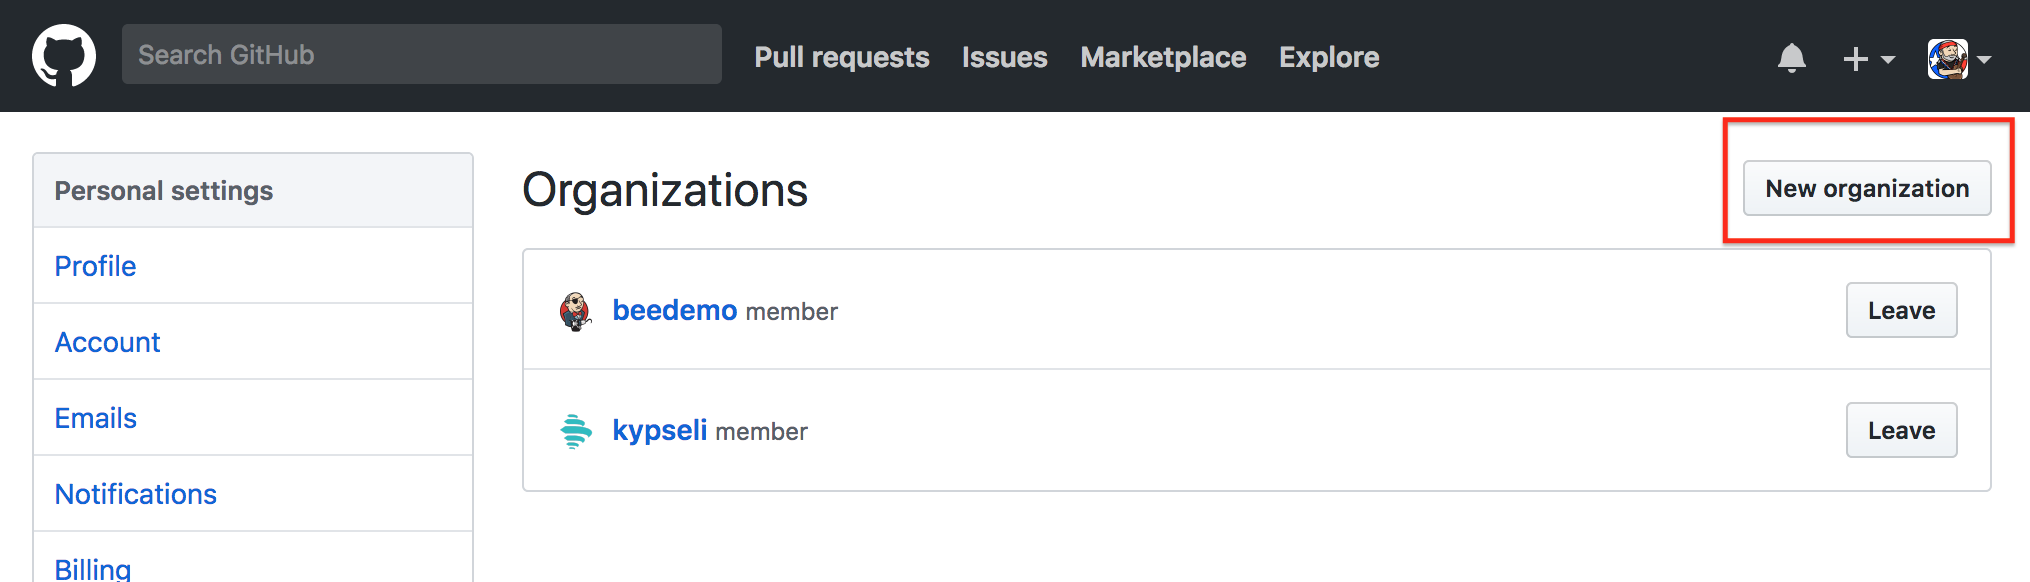
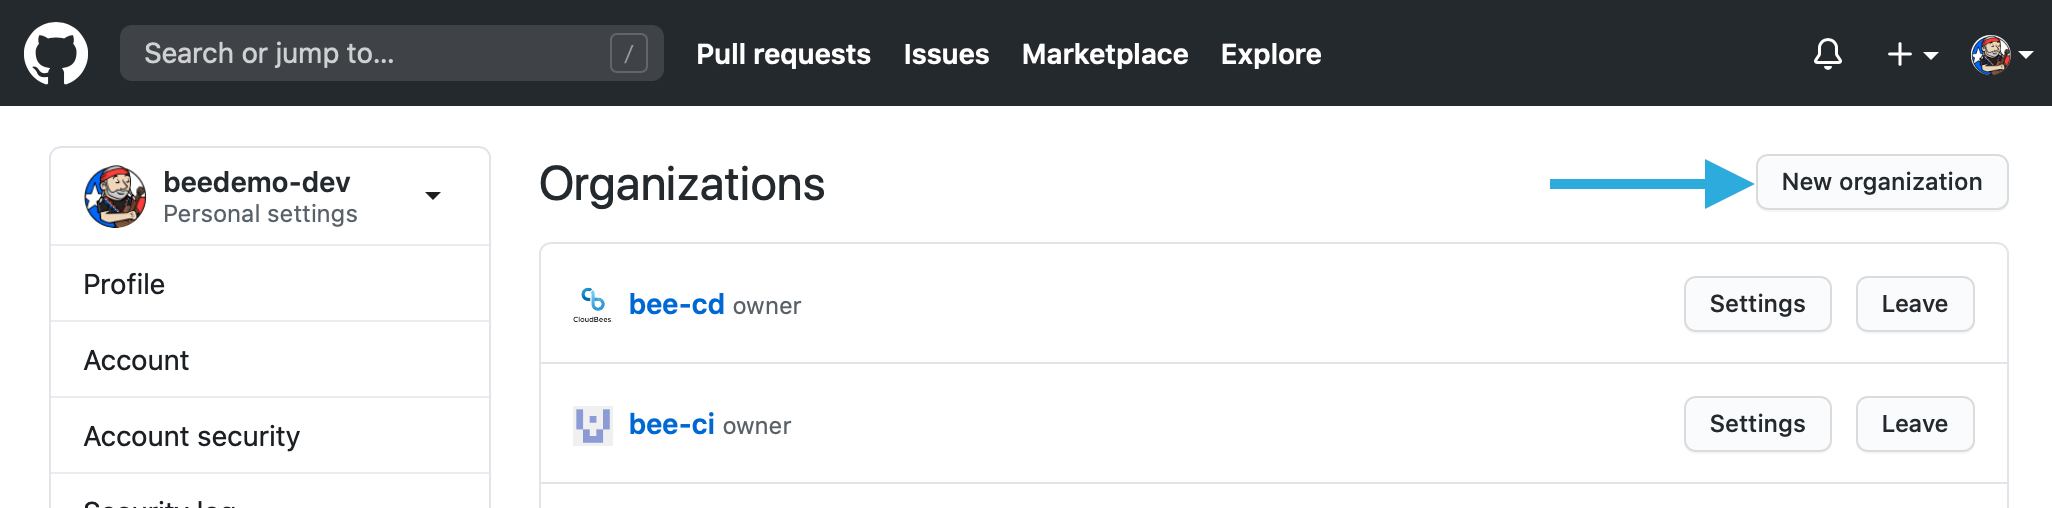
updated org setup

diff --git a/labs/cloudbees-ci/content/getting-started/pre-workshop-setup.md b/labs/cloudbees-ci/content/getting-started/pre-workshop-setup.md
@@ -18,12 +18,10 @@ Feel free to use an existing GitHub.com account or create a new one:
 ### Create a GitHub Organization
 
 We highly recommend creating a new GitHub Organization for the CloudBees CI Workshop. We will be using a GitHub App based credential to enable authentication and authorization between your GitHub.com Organization for the workshop and CloudBees CI.
-1. Ensure that you are logged into GitHub.com and then navigate to your [Organizations Settings page](https://github.com/settings/organizations). 
-2. Click on **New Organization** button.<p><img src="setup-github-new-org.png" width=550/>
-3. Select the **Free** plan by clicking on the **Join for free** button.<p>![GitHub Org Free](github-org-free.png?width=60pc)
-4. On the next screen, enter a unique ***Organization account name***, a valid ***Contact email***, select **My personal account** for ***This organization belongs to*** and then click on the **Next** button.<p>![GitHub Org Set up](github-org-set-up.png?width=40pc) 
-5. On the **Welcome to GitHub** screen just click the **Complete setup** button.<p>![GitHub Org Set up](github-org-welcome.png?width=50pc) 
-6. On the final page you don't have to fill anything in/answer any questions (unless your really want to) and just scroll to the bottom of the page and click the **Submit** button.
+1. Ensure that you are logged into GitHub.com and then navigate to this [link to create a new (and free) GitHub Organization](https://github.com/account/organizations/new?coupon=&plan=team_free). 
+2. Enter a unique ***Organization account name***, a valid ***Contact email***, select **My personal account** for ***This organization belongs to*** and then click on the **Next** button.<p>![GitHub Org Set up](github-org-set-up.png?width=40pc) 
+3. On the **Welcome to GitHub** screen just click the **Complete setup** button.<p>![GitHub Org Set up](github-org-welcome.png?width=50pc) 
+4. On the final page you don't have to fill anything in/answer any questions (unless your really want to) and just scroll to the bottom of the page and click the **Submit** button.
 
 >NOTE: Even though you have to provide an email for billing, **you will NOT be charged anything** as long as you choose the free option.
 

diff --git a/labs/cloudbees-ci/content/module-2/using-pipeline-templates.md b/labs/cloudbees-ci/content/module-2/using-pipeline-templates.md
@@ -4,7 +4,7 @@ chapter: false
 weight: 1
 ---
 
-## Create vue.js Job from Pipeline Template Catalog
+## Create a Job from Pipeline Template Catalog
 In this lab you will create a new Multibranch Pipeline job from the **VueJS** template provided by the Pipeline Template Catalog you added above - just by filling in a few parameters.
 
 1. On your CloudBees CI managed controller (Jenkins instance) navigate into the **template-jobs** folder that you created in the previous lab.

diff --git a/labs/cloudbees-ci/content/module-2/hibernating.md b/labs/cloudbees-ci/content/module-2/hibernating.md
@@ -1,7 +1,7 @@
 ---
 title: "Hibernation for Managed Controllers"
 chapter: false
-weight: 4
+weight: 5
 ---
 
 The [CloudBees CI hibernation for Managed Controllers](https://docs.cloudbees.com/docs/cloudbees-core/latest/cloud-admin-guide/managing-masters#_hibernation_in_managed_masters) feature takes advantage of running CloudBees CI on Kubernetes by automatically shutting down or hibernating CloudBees CI managed controller after a specified amount of time of inactivity.

diff --git a/labs/cloudbees-ci/content/module-2/casc-for-developers.md b/labs/cloudbees-ci/content/module-2/casc-for-developers.md
@@ -1,0 +1,7 @@
+---
+title: "CloudBees CI Configuration as Code for Developers"
+chapter: false
+weight: 2
+---
+
+As a developer you typically (and shouldn't) have access to makes configuration changes to your team's CloudBees CI ***managed controller*** (Jenkins instance).

diff --git a/labs/cloudbees-ci/content/module-2/contextual-pipeline-feedback.md b/labs/cloudbees-ci/content/module-2/contextual-pipeline-feedback.md
@@ -1,7 +1,7 @@
 ---
 title: "Contextual Pipeline Feedback"
 chapter: false
-weight: 2
+weight: 3
 ---
 
 Developers should use the tools they want and not be required to use tools that slow them down.

diff --git a/labs/cloudbees-ci/content/module-2/cross-team-collaboration.md b/labs/cloudbees-ci/content/module-2/cross-team-collaboration.md
@@ -1,7 +1,7 @@
 ---
 title: "Cross Team Collaboration"
 chapter: false
-weight: 3
+weight: 4
 ---
 
 ## Enable Cross Team Collaboration Notifications
